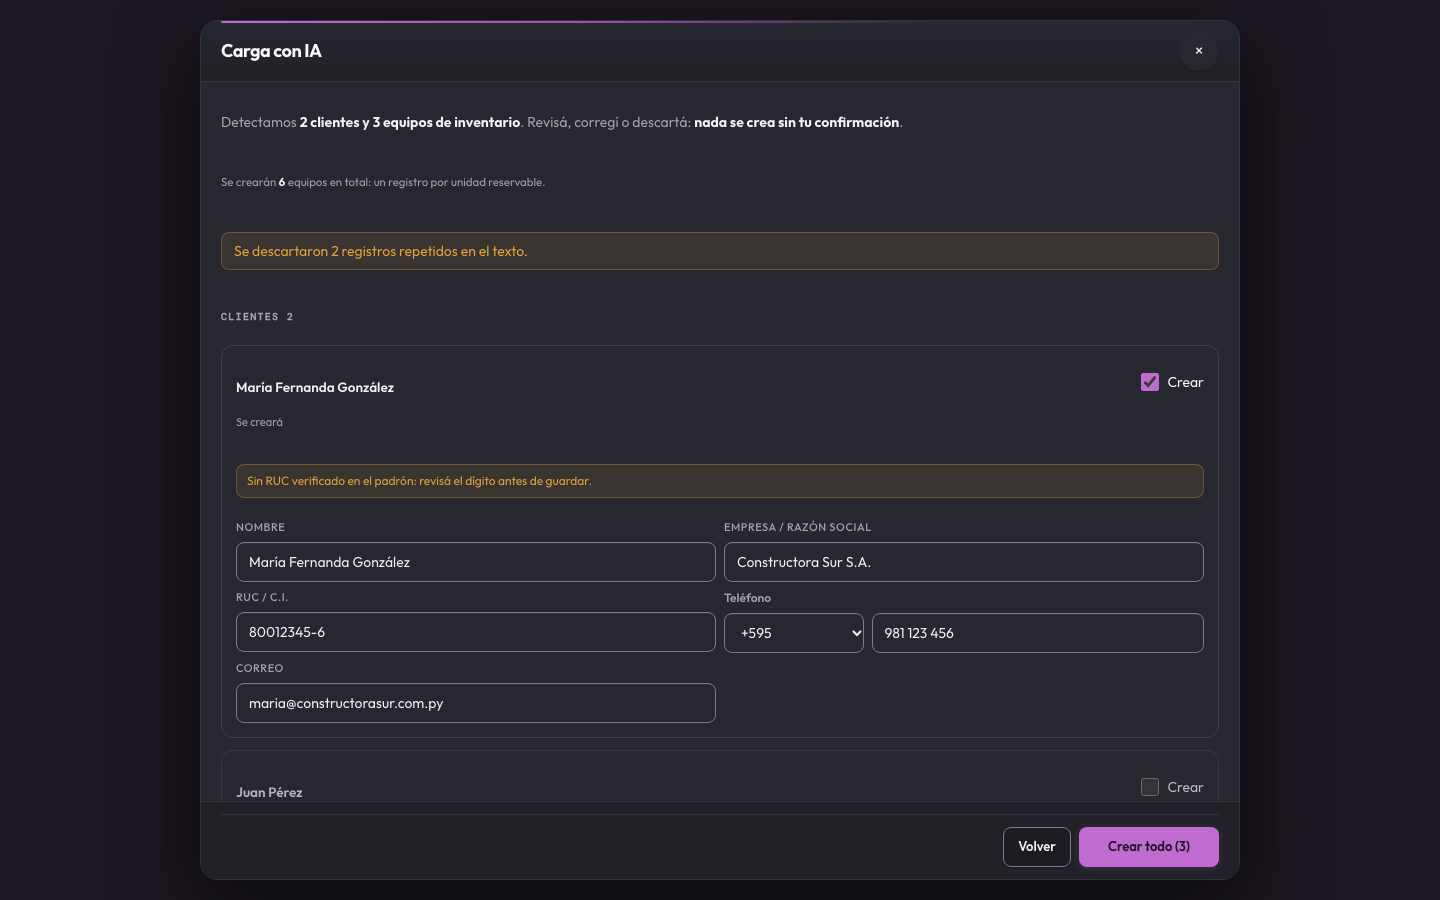
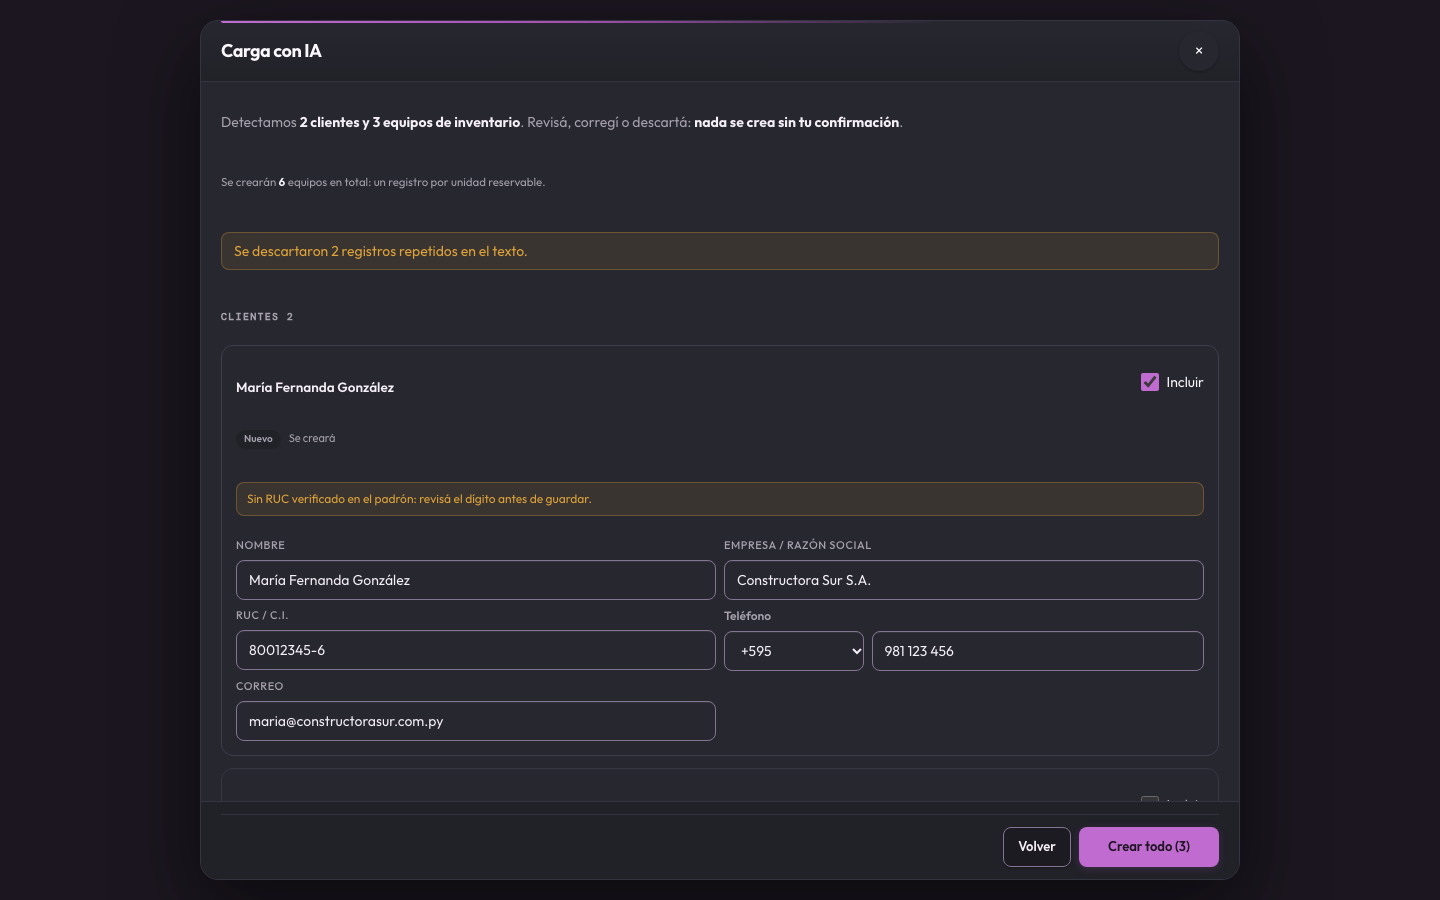
test(ia): contrato de coincidencias, acciones y capturas de la Fase 2
Tests de contrato (6): normalización de estados/coincidencias/acciones, señales
legibles, tope de 5 candidatos, ejecución confirmada (monto entero, duplicado
con segunda decisión, 404/501 como pendiente de #121, 403 con mensaje) y las
reglas duras de la UI: nada se duplica sin decisión, sin cliente no se confirma
y sin OK no se ejecuta.

Fixtures de coincidencia, ambigüedad, acción y resumen con 0 hallazgos a 1440 y
390; 16 capturas nuevas en docs/qa/ia-carga-120 y la revisión de Fase 1
regenerada con la tarjeta nueva (chip de estado + «Incluir»).

diff --git a/tests/ia-carga-120.test.tsx b/tests/ia-carga-120.test.tsx
@@ -1,0 +1,127 @@
+import React from 'react';
+import assert from 'node:assert/strict';
+import {test} from 'node:test';
+import {readFileSync} from 'node:fs';
+
+Object.assign(globalThis, {React});
+require.extensions['.css'] = () => {};
+
+const file = (path: string) => readFileSync(new URL(`../${path}`, import.meta.url), 'utf8');
+
+const {IA_COINCIDENCIAS_MAX, IA_ACCION_PATH, IA_ACCION_EJECUCION_ISSUE, normalizarIaAnalisis, senalMatchLabel, ejecutarAccionIa} = require('../app/ia-carga-data') as typeof import('../app/ia-carga-data');
+
+/* ------------------------------------------------- contrato de coincidencias */
+
+test('coincidencias: estado por registro, señales visibles y tope de candidatos', () => {
+ const analisis = normalizarIaAnalisis({
+  clientes: [
+   {nombre: 'Constructora Sur', ruc: '80012345-6', estado: 'coincide', coincidencias: [{id: 7, nombre: 'Constructora Sur S.A.', senales: ['ruc_ci_exacto', 'nombre_normalizado']}]},
+   {nombre: 'Juan Pérez', estado: 'ambiguo', coincidencias: Array.from({length: 8}, (_, i) => ({id: i + 1, nombre: `Juan Pérez ${i + 1}`, senales: ['nombre_normalizado']}))},
+   {nombre: 'Ana Díaz', estado: 'cualquier-cosa', coincidencias: [{nombre: 'sin id'}, null]},
+  ],
+  equipos: [{nombre: 'Trípode', estado: 'ambiguo', coincidencias: [{id: 3, nombre: 'Trípode Manfrotto', senales: ['nombre_normalizado']}]}],
+ });
+ assert.equal(analisis.clientes[0].estado, 'coincide');
+ assert.deepEqual(analisis.clientes[0].coincidencias[0], {id: '7', nombre: 'Constructora Sur S.A.', senales: ['ruc_ci_exacto', 'nombre_normalizado']}, 'los ids viajan como texto y las señales se conservan');
+ assert.equal(analisis.clientes[1].coincidencias.length, IA_COINCIDENCIAS_MAX, 'se muestran hasta 5 candidatos');
+ assert.equal(analisis.clientes[2].estado, 'nuevo', 'un estado desconocido no habilita coincidencias');
+ assert.deepEqual(analisis.clientes[2].coincidencias, [], 'una coincidencia sin id/nombre se descarta');
+ assert.equal(analisis.inventario[0].estado, 'ambiguo');
+ assert.equal(senalMatchLabel('ruc_ci_exacto'), 'RUC/CI coincide');
+ assert.equal(senalMatchLabel('correo'), 'mismo correo');
+ assert.equal(senalMatchLabel('senal_nueva'), 'senal nueva', 'una señal nueva se muestra cruda, no se esconde');
+});
+
+/* ----------------------------------------------------------- acciones #119 */
+
+test('acciones: se normalizan las de cobro y se informa lo no soportado', () => {
+ const analisis = normalizarIaAnalisis({
+  acciones: [
+   {tipo: 'registrar_cobro', cliente: {id: 12, nombre: 'Constructora Sur', estado: 'coincide', coincidencias: [{id: 12, nombre: 'Constructora Sur', senales: ['ruc_ci_exacto']}]}, monto: 2500000.4, moneda: 'PYG', fecha: '2026-09-28', detalle: 'Saldo del mes'},
+   {tipo: 'registrar_cobro', cliente: {estado: 'ambiguo', coincidencias: [{id: 5, nombre: 'Sur Films', senales: []}]}, monto: null, avisos: ['Falta el monto']},
+   {tipo: 'enviar_presupuesto', cliente: {id: 1}},
+  ],
+ });
+ assert.equal(analisis.acciones.length, 2, 'sólo se aceptan acciones soportadas');
+ assert.deepEqual(analisis.acciones[0], {tipo: 'registrar_cobro', cliente: {id: '12', nombre: 'Constructora Sur', estado: 'coincide', coincidencias: [{id: '12', nombre: 'Constructora Sur', senales: ['ruc_ci_exacto']}]}, monto: 2500000, moneda: 'PYG', fecha: '2026-09-28', detalle: 'Saldo del mes', avisos: []});
+ assert.equal(analisis.acciones[1].cliente.id, null, 'sin id el cliente queda sin resolver y la UI pide elegir');
+ assert.equal(analisis.acciones[1].monto, null, 'un monto ausente no se inventa');
+ assert(analisis.avisos.some((aviso: string) => aviso.includes('1 acción(es) de un tipo')), 'la acción no soportada se informa');
+});
+
+/* --------------------------------------------------- ejecución confirmada */
+
+test('ejecución: sólo con confirmación y con la respuesta real del servidor', async () => {
+ const calls: Array<{url: string; method: string; body: Record<string, unknown>}> = [];
+ const responder = (status: number, payload: unknown) => {
+  (globalThis as {fetch: unknown}).fetch = async (url: string, init: {method?: string; body?: string} = {}) => {
+   calls.push({url, method: init.method || 'GET', body: init.body ? JSON.parse(init.body) : {}});
+   return new Response(JSON.stringify(payload), {status, headers: {'Content-Type': 'application/json'}});
+  };
+ };
+
+ responder(200, {resultado: {mensaje: 'Cobro registrado por Gs. 2.500.000.'}});
+ const ok = await ejecutarAccionIa({clienteId: '12', monto: 2500000.4, moneda: 'PYG', fecha: '2026-09-28', detalle: null});
+ assert.deepEqual(ok, {estado: 'ejecutada', mensaje: 'Cobro registrado por Gs. 2.500.000.'});
+ assert.equal(calls[0].url, `/core-api${IA_ACCION_PATH}`, 'la ejecución vive en su propio endpoint');
+ assert.equal(calls[0].method, 'POST');
+ assert.deepEqual(calls[0].body, {tipo: 'registrar_cobro', cliente_id: '12', monto: 2500000, moneda: 'PYG', fecha: '2026-09-28', detalle: null, confirmar_duplicado: false}, 'el monto viaja entero y sin confirmar duplicados por defecto');
+
+ responder(409, {error: 'Ya registramos un cobro igual el mismo día.', code: 'cobro_duplicado'});
+ const duplicado = await ejecutarAccionIa({clienteId: '12', monto: 2500000, moneda: 'PYG', fecha: '2026-09-28', detalle: null});
+ assert.equal(duplicado.estado, 'duplicado', 'el duplicado pide una segunda decisión, no se registra');
+ assert.match(duplicado.mensaje, /cobro igual/);
+ const insistir = await ejecutarAccionIa({clienteId: '12', monto: 2500000, moneda: 'PYG', fecha: '2026-09-28', detalle: null, confirmarDuplicado: true});
+ assert.equal(calls[2].body.confirmar_duplicado, true, 'la segunda confirmación viaja explícita');
+
+ responder(404, {error: 'No encontrado'});
+ const pendiente = await ejecutarAccionIa({clienteId: '12', monto: 2500000, moneda: 'PYG', fecha: null, detalle: null});
+ assert.equal(pendiente.estado, 'pendiente', 'sin #121 el cobro no se simula');
+ assert(pendiente.mensaje.includes(`#${IA_ACCION_EJECUCION_ISSUE}`), 'el pendiente cita la base de Finanzas');
+
+ responder(403, {error: 'Tu rol no permite registrar cobros.'});
+ const sinPermiso = await ejecutarAccionIa({clienteId: '12', monto: 2500000, moneda: 'PYG', fecha: null, detalle: null});
+ assert.equal(sinPermiso.estado, 'error');
+ assert.match(sinPermiso.mensaje, /Tu rol no permite/);
+});
+
+/* ------------------------------------------------------------------- UI #120 */
+
+test('tarjetas: Nuevo / Coincide / Ambiguo con decisión explícita y Nada se duplica solo', () => {
+ const dialog = file('app/ia-carga.tsx');
+ assert(dialog.includes('>Nuevo</StateChip>') && dialog.includes('>Coincide</StateChip>') && dialog.includes('>Ambiguo</StateChip>'), 'cada tarjeta muestra su estado de match');
+ assert(dialog.includes("if (estado === 'coincide' && coincidencias[0]) return {decision: 'vincular'"), 'una coincidencia fuerte propone vincular por defecto');
+ assert(dialog.includes("if (estado === 'ambiguo') return {decision: 'pendiente'"), 'una ambigüedad exige decisión');
+ assert(dialog.includes('Usar «'), 'la ficha existente se puede elegir como destino');
+ assert(dialog.includes("Crear {tipo} nuevo"), 'crear un registro nuevo es una opción explícita');
+ assert(dialog.includes('Nada se duplica sin tu decisión'), 'la tarjeta lo dice con todas las letras');
+ assert(dialog.includes('pendientesDeDecision'), 'la creación bloquea las tarjetas sin decidir');
+ assert(dialog.includes("fila.decision==='crear'"), 'sólo se crean las tarjetas con decisión de crear');
+ assert(dialog.includes('fila.decision===\'vincular\''), 'vincular no crea nada');
+ assert(dialog.includes('Vinculamos'), 'el resumen distingue vinculados');
+ assert(dialog.includes("decision==='vincular'") && dialog.includes('Se usa la ficha existente'), 'la tarjeta vinculada lo declara');
+});
+
+test('acciones: confirmación de a una, sin cliente no se confirma y sin OK no se ejecuta', () => {
+ const dialog = file('app/ia-carga.tsx');
+ assert(dialog.includes('Confirmar acción'), 'cada acción propuesta tiene su botón de confirmación');
+ assert(dialog.includes('disabled={!fila.clienteId}'), 'sin cliente resuelto no se puede confirmar');
+ assert(dialog.includes('No pudimos vincular el cliente'), 'si no hay candidatos se pide elegir, no se ejecuta');
+ assert(dialog.includes('Elegí el cliente existente antes de confirmar.'), 'la validación corta antes de llamar al servidor');
+ assert(dialog.includes('Ingresá el monto del cobro (mayor a cero).'), 'un monto inválido no se ejecuta');
+ assert(dialog.includes('confirmarAccion(fila.clave,true)') && dialog.includes('Registrar igual'), 'el duplicado pide una segunda decisión explícita');
+ assert(dialog.includes('Registramos') && dialog.includes('sin confirmar: no se ejecutó nada de eso'), 'el resumen cuenta acciones ejecutadas y pendientes');
+ const antesDeConfirmar = dialog.slice(0, dialog.indexOf('async function confirmarAccion'));
+ assert(!antesDeConfirmar.includes('ejecutarAccionIa('), 'ningún camino ejecuta la acción antes de la confirmación');
+});
+
+test('la ejecución de acciones es de #121 y la UI no la simula', () => {
+ const data = file('app/ia-carga-data.ts');
+ const dialog = file('app/ia-carga.tsx');
+ assert(data.includes('IA_ACCION_EJECUCION_ISSUE = 121'), 'el pendiente cita la base de Finanzas');
+ assert(data.includes("estado: 'pendiente'") && data.includes('La ejecución de cobros todavía no está publicada'), 'un 404/501 se muestra como pendiente honesto');
+ assert(!/estado: 'ejecutada'[^\n]*404/s.test(data), 'un 404 nunca devuelve una ejecución simulada');
+ assert(dialog.includes('data-estado={fila.estado}'), 'la tarjeta expone su estado para pruebas y estilos');
+ assert(!dialog.includes('localStorage') && !dialog.includes('sessionStorage'), 'ni el texto ni las decisiones se persisten');
+ assert(!dialog.includes('searchParams') && !dialog.includes('document.title'), 'sin datos personales en URLs ni títulos');
+});

diff --git a/tests/ia-carga-118.test.tsx b/tests/ia-carga-118.test.tsx
@@ -38,11 +38,11 @@ test('análisis: normaliza, recorta y conserva los avisos sin inventar datos', (
   avisos: ['Se descartaron 2 registros repetidos', null],
  });
  assert.equal(analisis.clientes.length, 1);
- assert.deepEqual(analisis.clientes[0], {nombre: 'Juan Pérez', empresa: 'Constructora Sur', ruc: '80012345-6', telefono: null, correo: 'juan@sur.com.py', avisos: ['Sin RUC verificado']});
- assert.deepEqual(analisis.inventario[0], {nombre: 'Pantalla LED 3x2', categoria: 'iluminación', cantidad: 4, valor: 1500000, avisos: []});
- assert.deepEqual(analisis.inventario[1], {nombre: 'Trípode', categoria: null, cantidad: null, valor: null, avisos: ['Cantidad dudosa']}, 'un valor negativo no se convierte en un monto inventado');
+ assert.deepEqual(analisis.clientes[0], {nombre: 'Juan Pérez', empresa: 'Constructora Sur', ruc: '80012345-6', telefono: null, correo: 'juan@sur.com.py', estado: 'nuevo', coincidencias: [], avisos: ['Sin RUC verificado']});
+ assert.deepEqual(analisis.inventario[0], {nombre: 'Pantalla LED 3x2', categoria: 'iluminación', cantidad: 4, valor: 1500000, estado: 'nuevo', coincidencias: [], avisos: []});
+ assert.deepEqual(analisis.inventario[1], {nombre: 'Trípode', categoria: null, cantidad: null, valor: null, estado: 'nuevo', coincidencias: [], avisos: ['Cantidad dudosa']}, 'un valor negativo no se convierte en un monto inventado');
  assert.deepEqual(analisis.avisos, ['Se descartaron 2 registros repetidos']);
- assert.deepEqual(normalizarIaAnalisis({}), {clientes: [], inventario: [], avisos: []}, 'una respuesta vacía no rompe la vista previa');
+ assert.deepEqual(normalizarIaAnalisis({}), {clientes: [], inventario: [], acciones: [], avisos: []}, 'una respuesta vacía no rompe la vista previa');
  // Puente con el motor de #117: la respuesta real llega con la clave «equipos».
  assert.deepEqual(normalizarIaAnalisis({equipos: [{nombre: 'Trípode', categoria: null, cantidad: null, valor: null, avisos: []}]}).inventario[0].nombre, 'Trípode', 'los equipos del servidor se leen como inventario');
 });
@@ -116,9 +116,9 @@ test('vista previa: tarjetas editables, avisos reales, obligatorios e incluir/de
  const dialog = file('app/ia-carga.tsx');
  assert(dialog.includes('Clientes <span'), 'hay una sección de clientes detectados');
  assert(dialog.includes('Equipos de inventario <span'), 'hay una sección de equipos detectados');
- assert(dialog.includes('<Checkbox label="Crear"'), 'cada tarjeta se incluye o descarta');
+ assert(dialog.includes('<Checkbox label="Incluir"'), 'cada tarjeta se incluye o descarta');
  assert(dialog.includes('cliente.avisos.join') && dialog.includes('equipo.avisos.join'), 'los avisos del análisis viajan a la tarjeta');
- assert(dialog.includes("intentado&&!nombreValido") && dialog.includes('Obligatorio: 2 caracteres o más.'), 'los obligatorios se marcan al intentar crear');
+ assert(dialog.includes("intentado&&cliente.incluir&&cliente.decision==='crear'&&!nombreValido") && dialog.includes('Obligatorio: 2 caracteres o más.'), 'los obligatorios se marcan al intentar crear');
  assert(dialog.includes('SelectCustom label="Categoría"'), 'la categoría se edita con el objeto del sistema');
  assert(dialog.includes('PhoneField') && dialog.includes('EmailField') && dialog.includes('AmountInput'), 'los campos tipados usan los objetos compartidos');
  assert(dialog.includes('un registro por unidad reservable'), 'la cantidad de equipos explica el modelo de una fila por unidad');
@@ -128,7 +128,7 @@ test('creación: sólo con confirmación, con los endpoints existentes y resumen
  const dialog = file('app/ia-carga.tsx');
  const data = file('app/ia-carga-data.ts');
  assert(dialog.includes('onClick={()=>void crearTodo()}'), 'la creación cuelga del botón de confirmación');
- assert(dialog.includes("'Creando…':`Crear todo (${totalIncluidos})`"), 'el botón dice cuántos registros va a crear');
+ assert(dialog.includes("'Creando…':`Crear todo (${totalCrear})`"), 'el botón dice cuántos registros va a crear');
  const antesDeCrear = dialog.slice(dialog.indexOf('async function analizar'), dialog.indexOf('async function crearTodo'));
  assert(!antesDeCrear.includes('crearClienteDesdeIa') && !antesDeCrear.includes('crearEquipoDesdeIa'), 'el análisis no crea nada por sí solo');
  assert(dialog.indexOf('crearClienteDesdeIa', dialog.indexOf('async function crearTodo')) > 0, 'la creación de clientes vive dentro de crearTodo');
